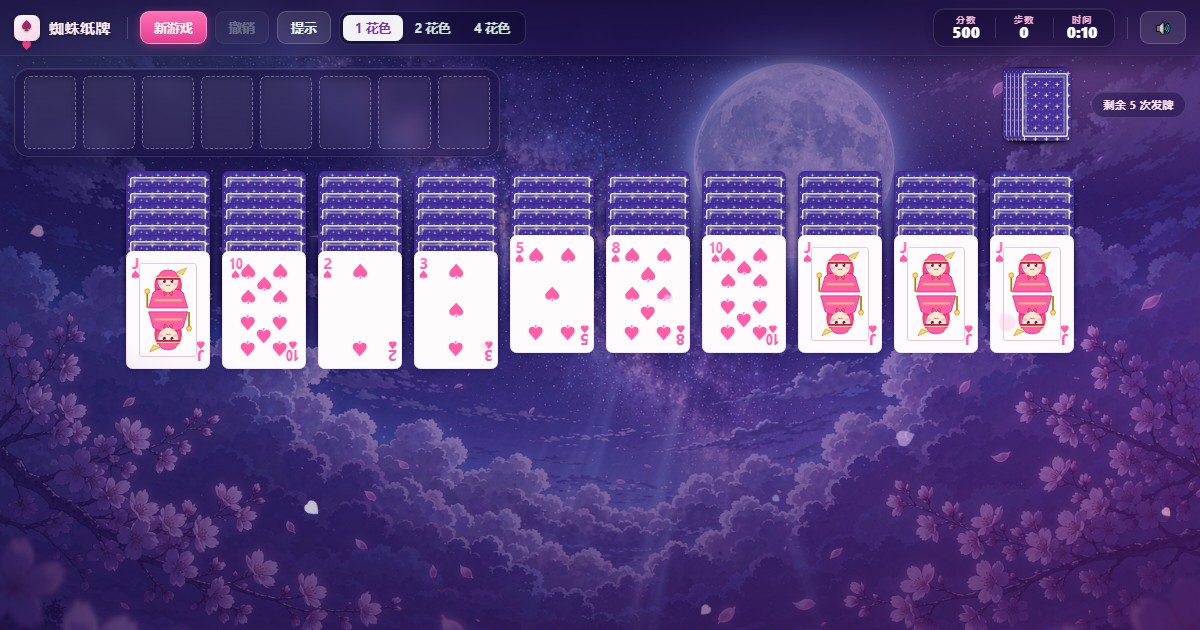
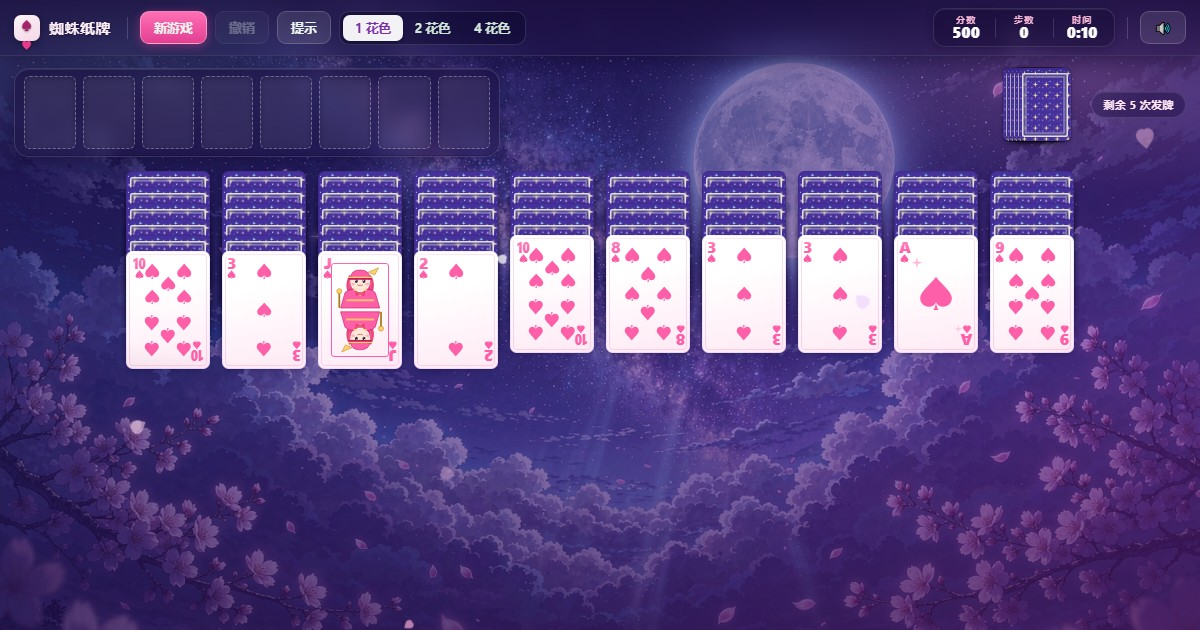
feat: 卡面二次元化（花色渐变底+同色内框+圆体角标+A光晕星星+宫廷框）

diff --git a/index.html b/index.html
@@ -452,6 +452,20 @@
   /* 1 花色时收进收集槽的牌也跟着变粉 */
   body.solo .card.su0.ghostfly { color: #ff5fa8; }
 
+  /* ---------------- 二次元卡面 ---------------- */
+  /* 按花色给极淡的渐变底色（白 → 花色淡染），一眼仍有花色氛围但不影响读牌 */
+  .card.up.su0 { background: linear-gradient(168deg, #ffffff 32%, #efe9ff 100%); }
+  .card.up.su1 { background: linear-gradient(168deg, #ffffff 32%, #ffeef6 100%); }
+  .card.up.su2 { background: linear-gradient(168deg, #ffffff 32%, #fff4e0 100%); }
+  .card.up.su3 { background: linear-gradient(168deg, #ffffff 32%, #e6f9f6 100%); }
+  body.solo .card.up.su0 { background: linear-gradient(168deg, #ffffff 32%, #ffe9f4 100%); }
+  /* 卡面内框：一圈细的同花色描边，二次元卡牌的"卡片感"（画在 face 最底层，不压角标） */
+  .card.up .face::before {
+    content: ""; position: absolute; inset: 3px; pointer-events: none;
+    border-radius: calc(var(--cw) * .055);
+    border: 1.5px solid currentColor; opacity: .22;
+  }
+
   /* 矢量花色：用 mask 上色，跨平台形状统一、边缘锐利，不受系统字体影响 */
   .su-i {
     display: block;
@@ -473,8 +487,8 @@
   .corner.tl { top: 4%; left: 6%; }
   .corner.br { bottom: 4%; right: 6%; transform: rotate(180deg); }
   .corner .rk {
-    font-family: "Segoe UI", Arial, Helvetica, "PingFang SC", sans-serif;
-    font-size: calc(var(--cw) * .19); font-weight: 700;
+    font-family: "Yuanti SC", "YouYuan", "幼圆", "Segoe UI", Arial, Helvetica, "PingFang SC", sans-serif;
+    font-size: calc(var(--cw) * .19); font-weight: 800;
     line-height: .84; letter-spacing: -.03em; font-variant-numeric: tabular-nums;
   }
   .corner .rk.two { transform: scaleX(.78); }
@@ -496,14 +510,24 @@
   .pip.flip { transform: translate(-50%,-50%) rotate(180deg); }
   .center { position: absolute; inset: 0; display: grid; place-items: center; }
   .center .su-i.su-big { width: calc(var(--cw) * .42); height: calc(var(--cw) * .42); }
+  /* A 的二次元处理：中央花色加同色光晕，两角点缀四角星 */
+  .center .su-i.su-big { filter: drop-shadow(0 0 5px); }
+  .center::before, .center::after {
+    content: ""; position: absolute; background: currentColor;
+    clip-path: polygon(50% 0%, 61% 39%, 100% 50%, 61% 61%, 50% 100%, 39% 61%, 0% 50%, 39% 39%);
+  }
+  .center::before { width: calc(var(--cw) * .13); height: calc(var(--cw) * .13); top: 19%; left: 21%; opacity: .42; }
+  .center::after  { width: calc(var(--cw) * .09); height: calc(var(--cw) * .09); bottom: 17%; right: 19%; opacity: .3; }
   /* J / Q / K：上下镜像的宫廷人物（经典宫廷牌结构） */
   /* 人物区收窄，保证每半身高≈宽（经典宫廷牌的构图比例） */
   .court-figure {
     position: absolute; left: 15%; right: 15%; top: 10%; bottom: 10%;
     display: flex; flex-direction: column;
     padding: 1.5%;
-    border: 1px solid rgba(233,150,196,.55);
+    /* 同花色细描边 + 顶部白色薄纱，二次元卡片框 */
+    border: 1.5px solid currentColor;
     border-radius: calc(var(--cw) * .035);
+    background: linear-gradient(175deg, rgba(255,255,255,.5), rgba(255,255,255,0) 46%);
   }
   /* 上下两个人像在中线相接，不画分隔线（画了会从人像身上穿过去） */
   .court-figure .fig {
